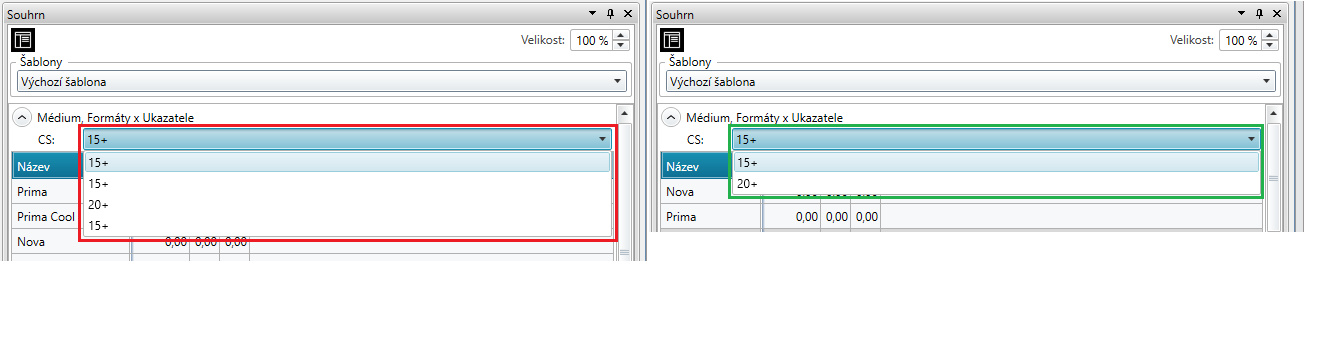
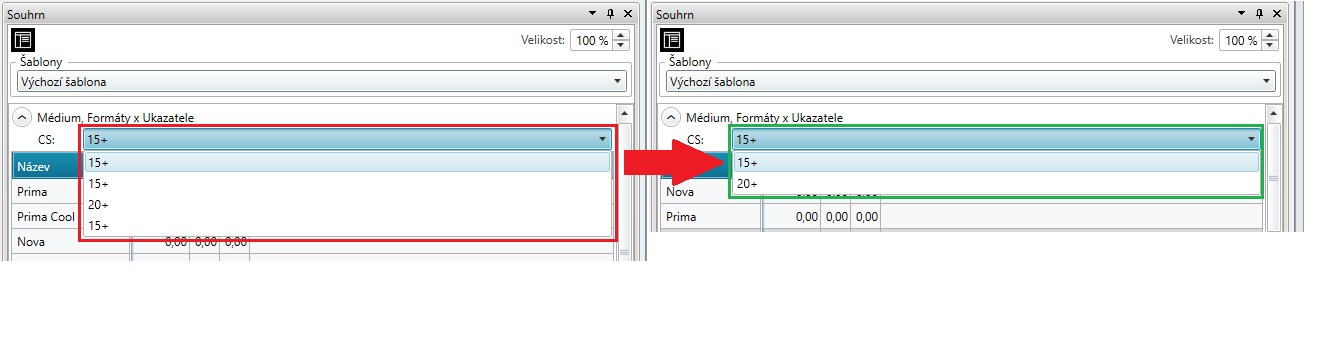
313v2 obrazek a preklep

Changed region(s): [[0.4607, 0.4062, 0.5528, 0.5312]]

diff --git a/_posts/1999-09-30-1.1.313.md b/_posts/1999-09-30-1.1.313.md
@@ -3,7 +3,7 @@ categories: [fenix]
 layout: fenix
 ---
 ## Souhrn - duplicitní <abbr title="Cílová skupina">CS</abbr>
-Pokud má uživatel vybrané stejné hlavní a ostatní nebo afitintní cílové skupiny, nově se v souhrnu zobrazí pouze jednou.
+Pokud má uživatel vybrané stejné hlavní a ostatní nebo afinitní cílové skupiny, nově se v souhrnu zobrazí pouze jednou.
 
 ![Duplicitní CS]({{site.url}}/data/duplicitni_CS.png "Duplicitní CS")
 
